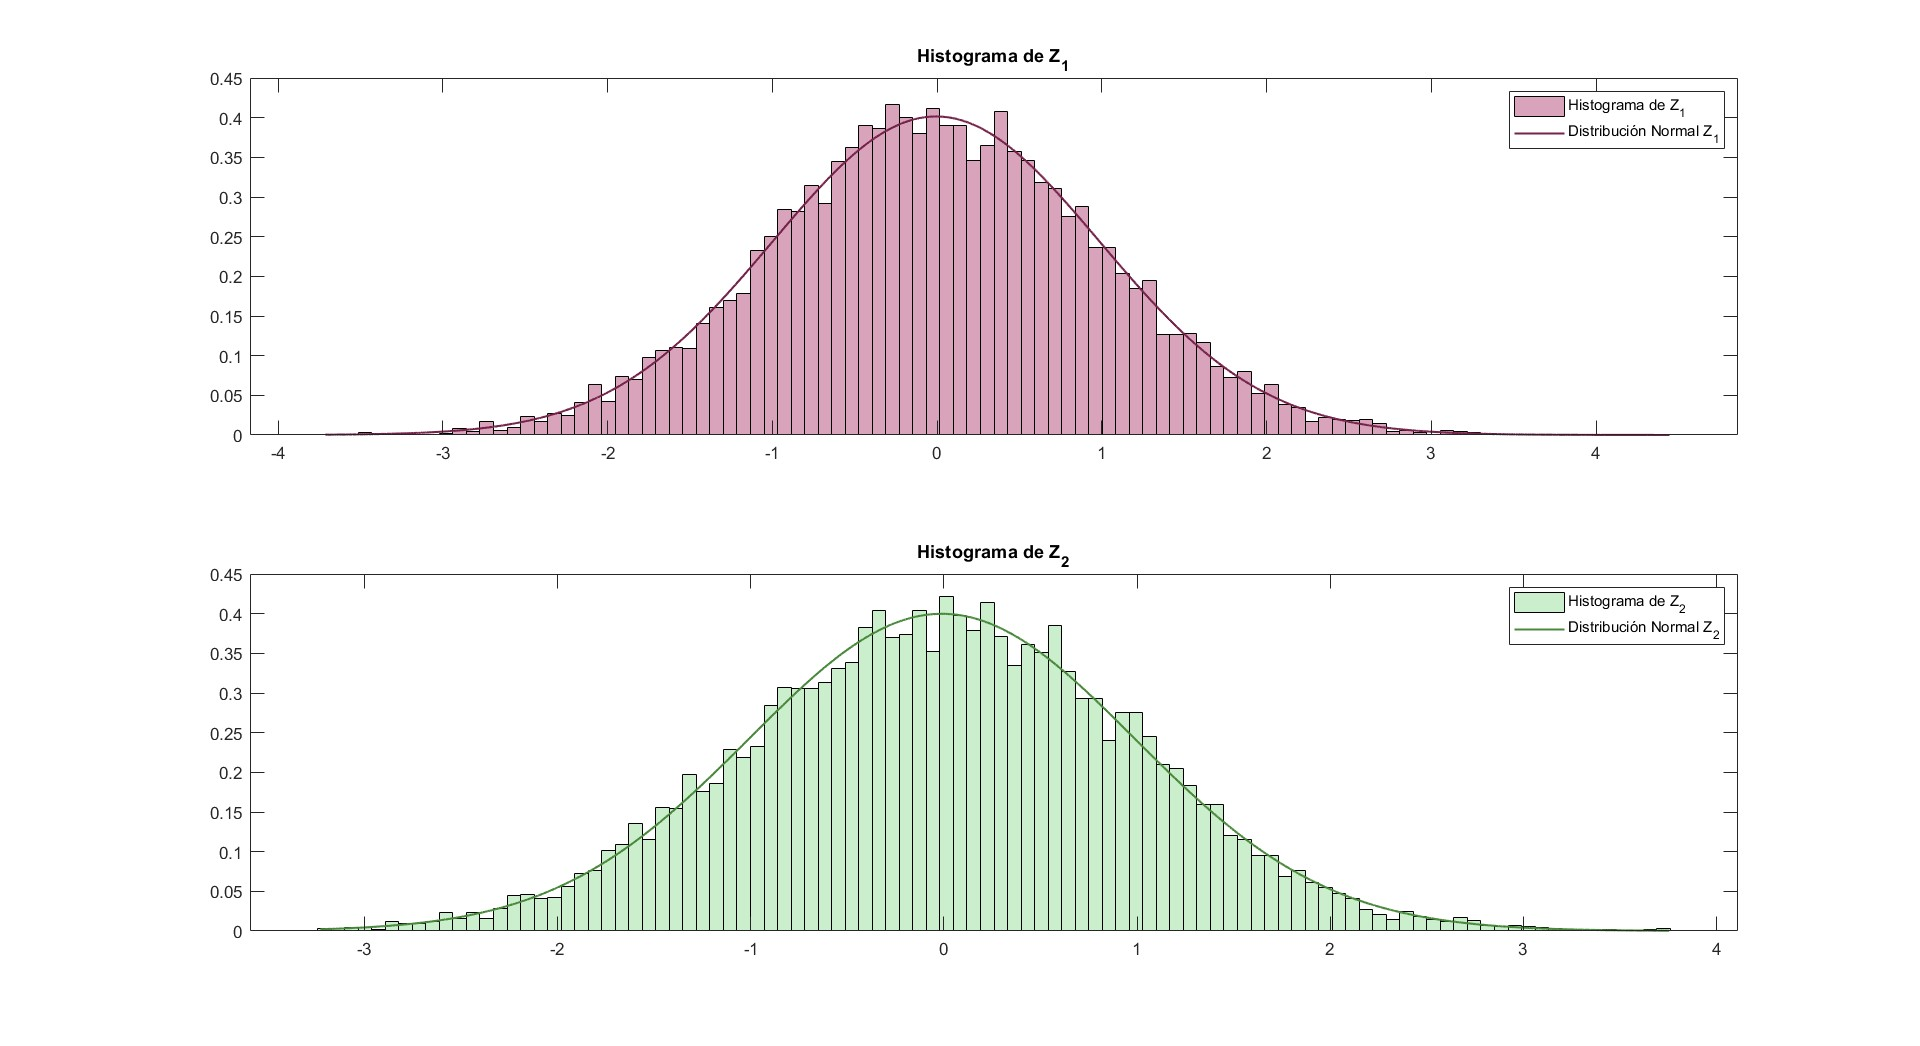
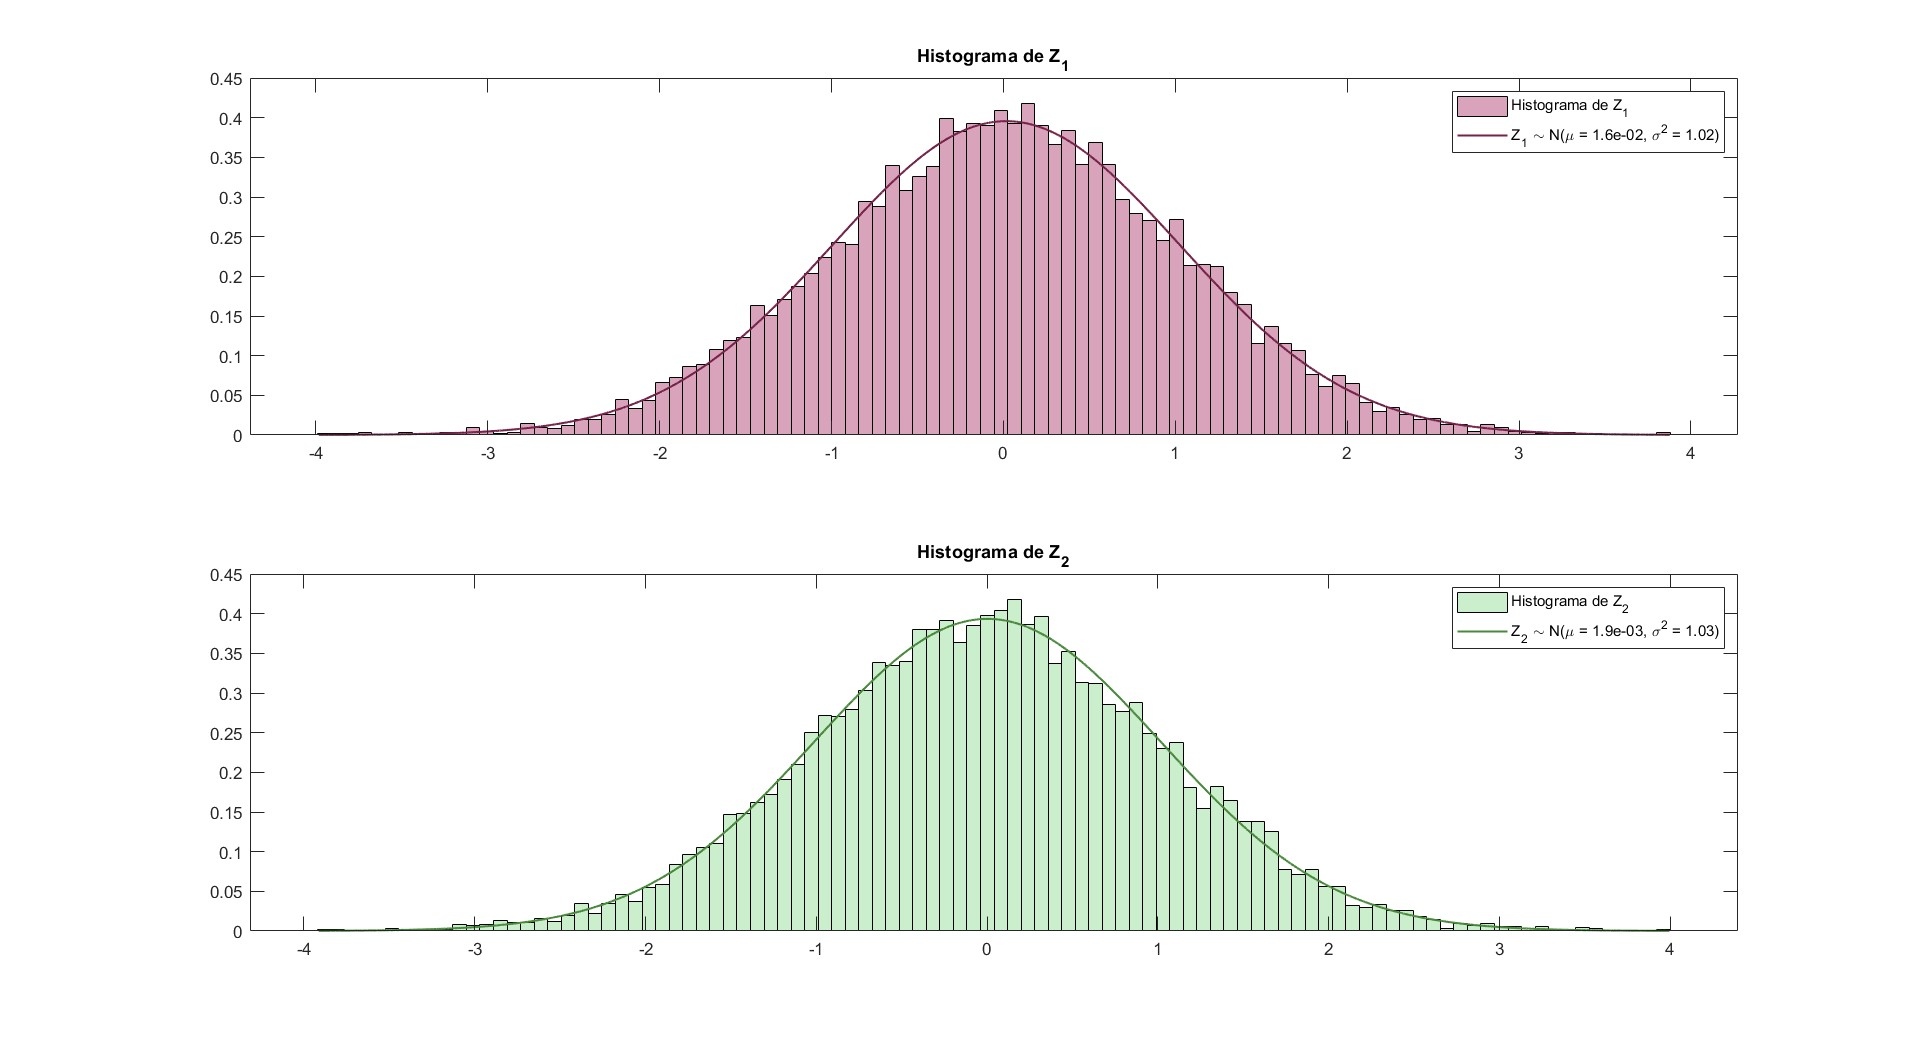
formato de graficos + graficos

diff --git a/TP1/Punto1a.m b/TP1/Punto1a.m
@@ -30,7 +30,7 @@ title('Histograma de Z_1');
 y1 = normpdf(x1,MeanZ1,sqrt(VarZ1));
 
 plot(x1,y1,'Color', '#75234a', 'LineWidth', 1.25);  
-legend('Histograma de Z_1','Distribución Normal Z_1');
+legend('Histograma de Z_1', sprintf('Z_1 \\sim N(\\mu = %.1e, \\sigma^{2} = %.2f)', MeanZ1, VarZ1));
 
 subplot(2,1,2)
 histogram(Z2, bines, 'Normalization', 'pdf', 'FaceColor', '#a9e2ac'); 
@@ -39,14 +39,13 @@ y2 = normpdf(x2,MeanZ2,sqrt(VarZ2));
 
 title('Histograma de Z_2');
 plot(x2, y2, 'Color', '#4a893d', 'LineWidth', 1.25);
-legend('Histograma de Z_2','Distribución Normal Z_2');
+legend('Histograma de Z_2', sprintf('Z_2 \\sim N(\\mu = %.1e, \\sigma^{2} = %.2f)', MeanZ2, VarZ2));
 
+coeficiente = corrcoef(Z1,Z2);
 
 figure();
 scatter(Z1,Z2, 'MarkerEdgeColor', '#0c3fc8');
 title('Gráfico de Dispersión: Z_2 vs Z_1');
+subtitle(sprintf('Coeficiente de Correlación de Pearson: \\rho = %.1e', coeficiente(1,2)));
 xlabel('Z_1');
 ylabel('Z_2');
-
-coeficiente = corrcoef(Z1,Z2);
-
